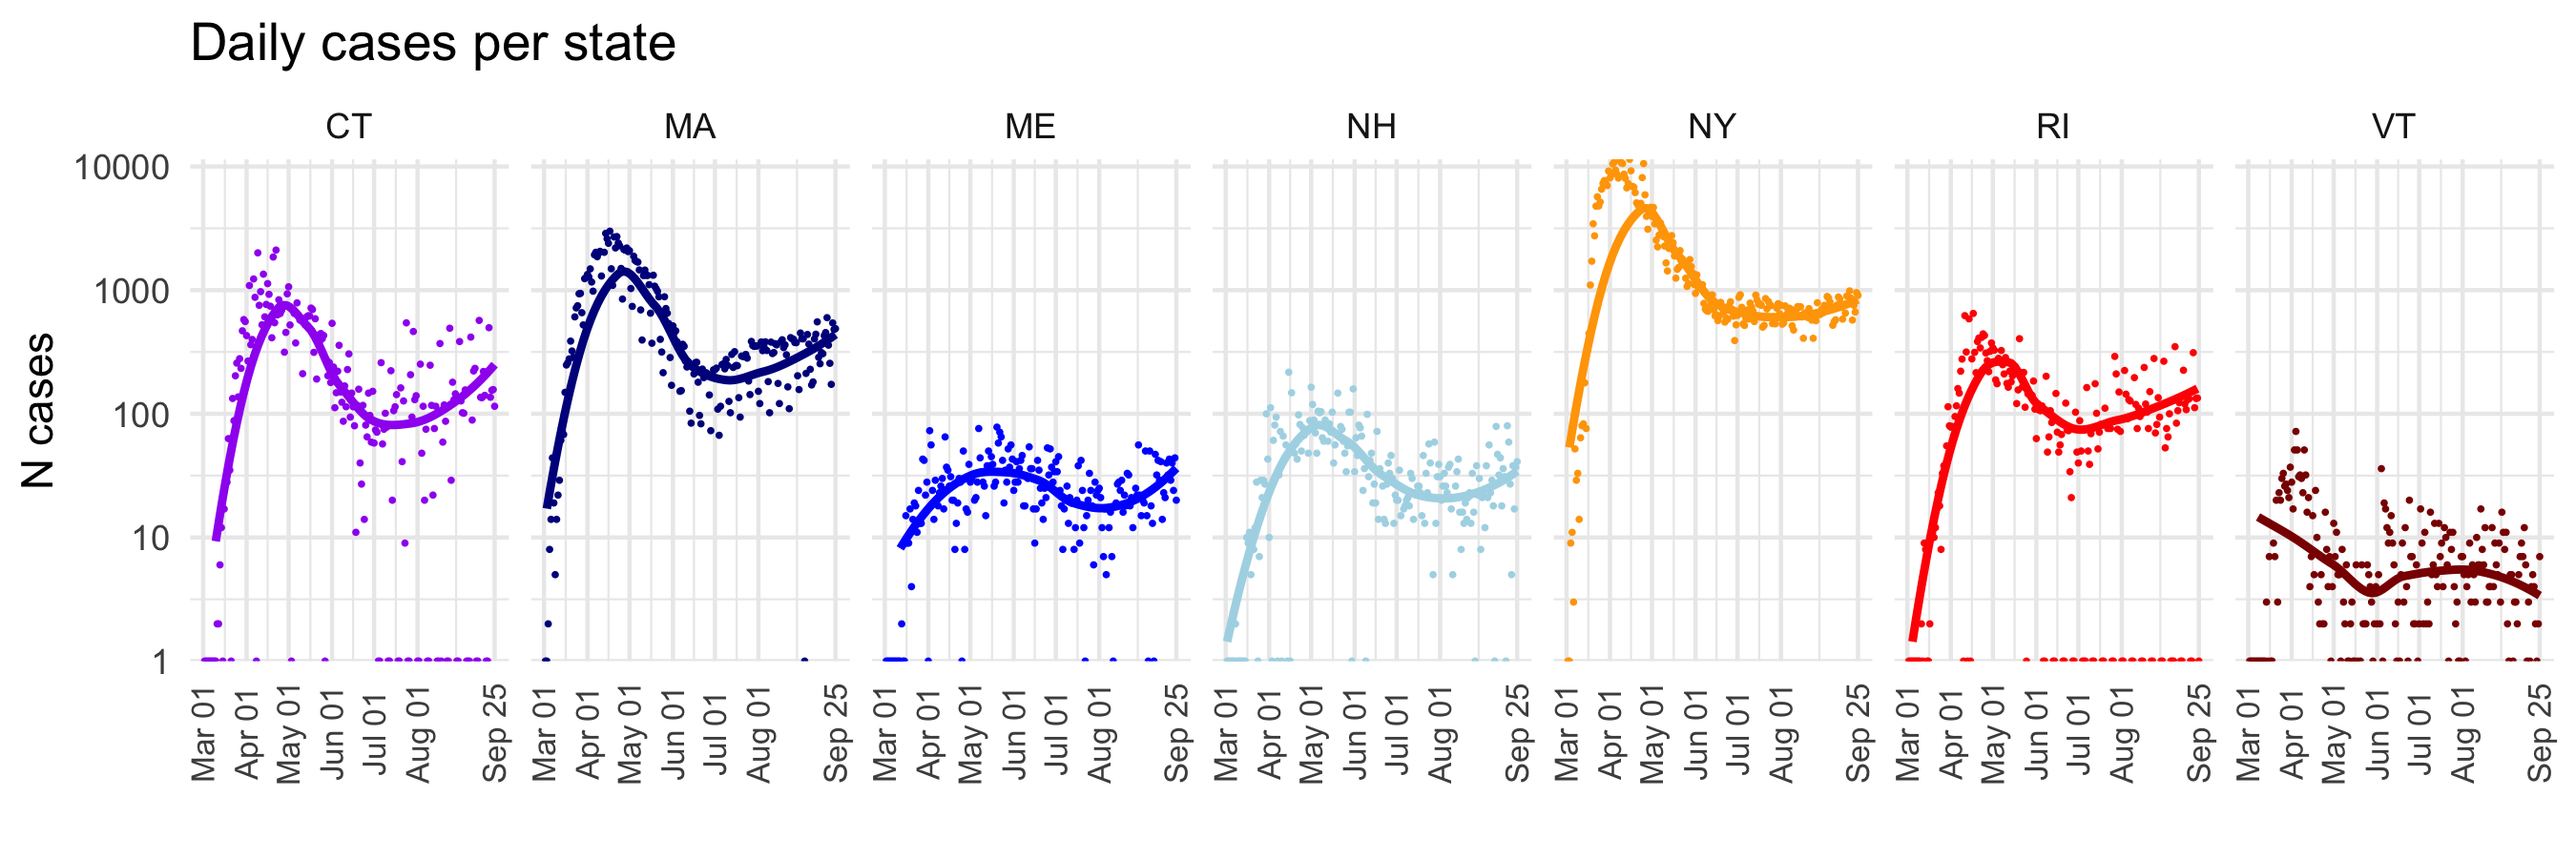
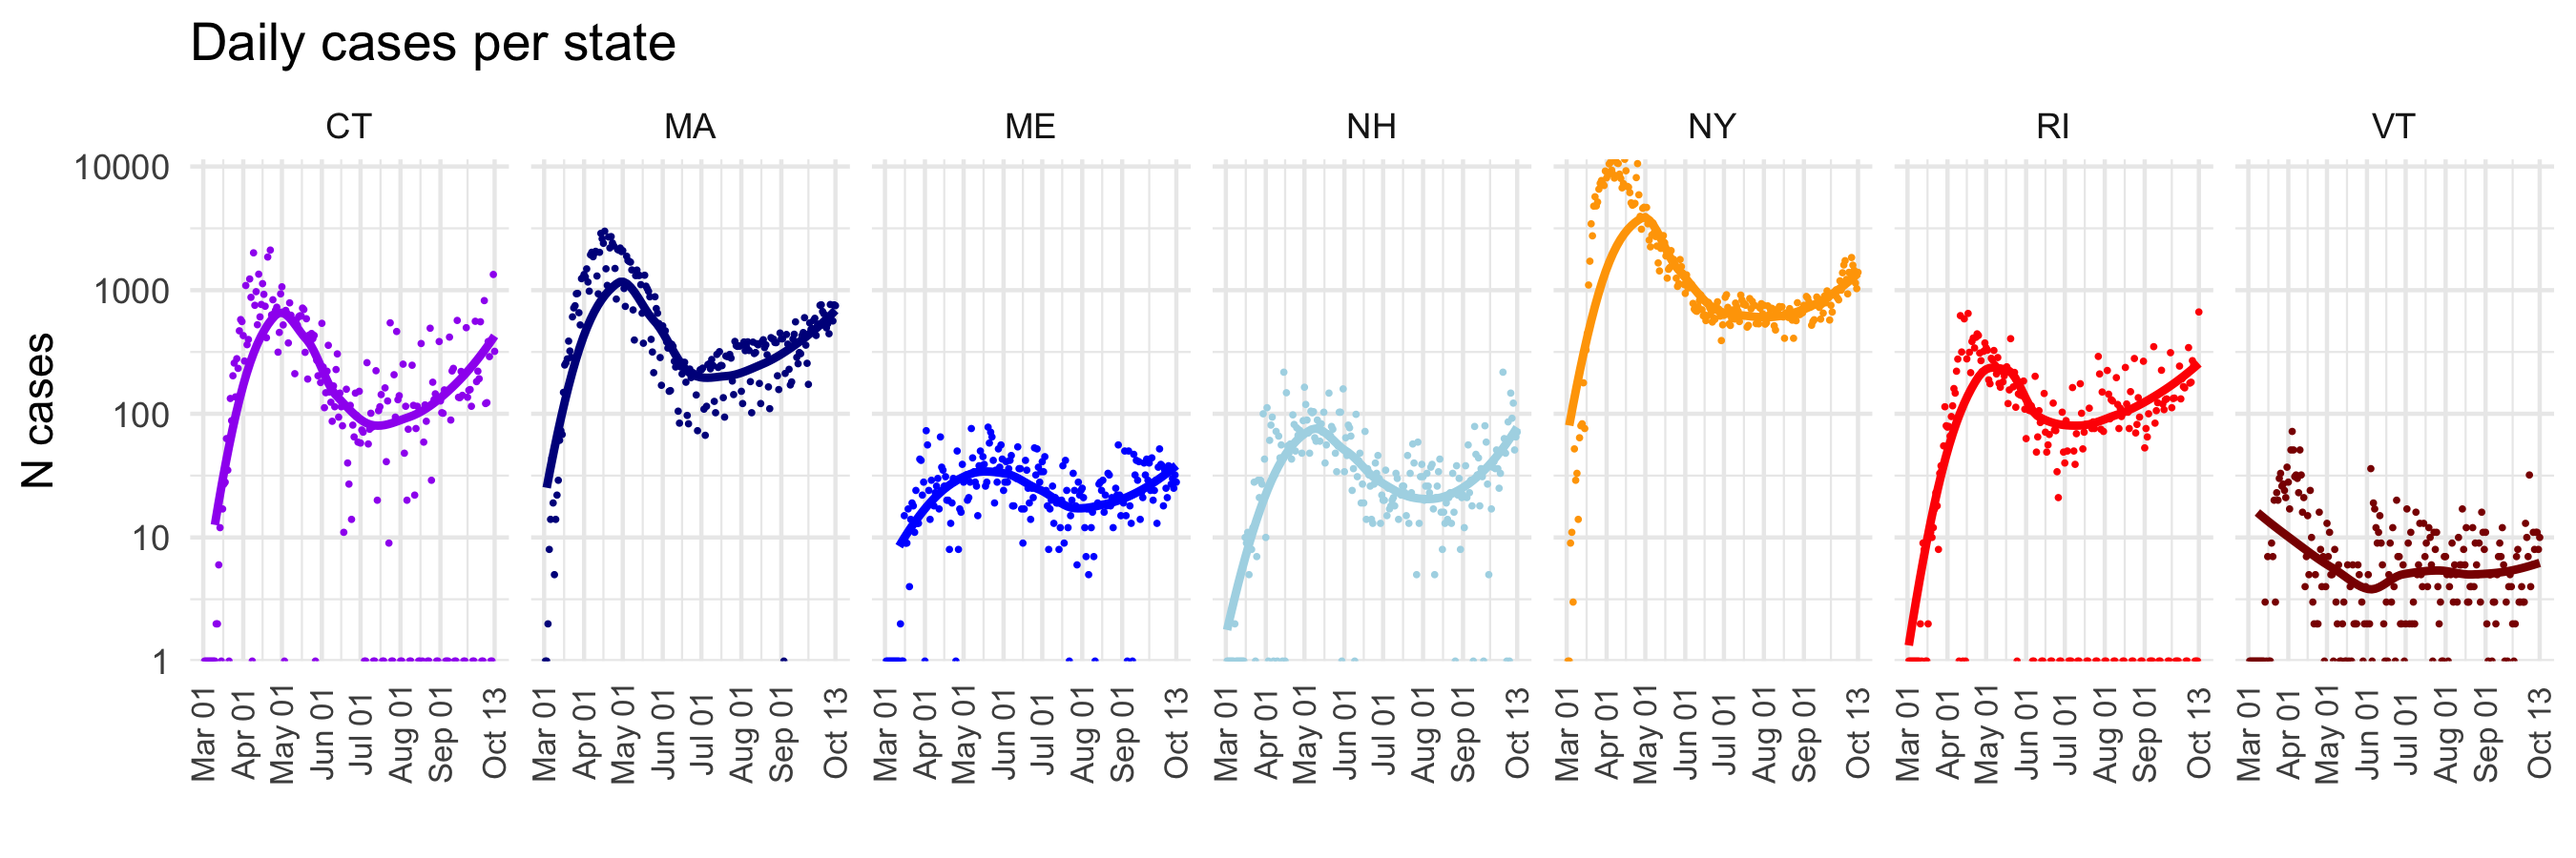
Package update on 2020-10-14 13:59:00

Changed region(s): [[0.0622, 0.1867, 0.9956, 0.9333]]

diff --git a/README.md b/README.md
@@ -12,7 +12,7 @@ around a focal point, in this case Worcester, MA, the home of Clark
 University. It also tries to show county-level detail available in state
 datasets.
 
-**Last update**: 2020-09-26 10:10:10
+**Last update**: 2020-10-14 13:58:57
 <img src="vignettes/figures/caserate_map.png" width="95%" style="display: block; margin: auto;" /><img src="vignettes/figures/case_map.png" width="95%" style="display: block; margin: auto;" /><img src="vignettes/figures/statecases_daily.png" width="95%" style="display: block; margin: auto;" /><img src="vignettes/figures/statecases_cumulative.png" width="95%" style="display: block; margin: auto;" /><img src="vignettes/figures/statedeaths_daily.png" width="95%" style="display: block; margin: auto;" /><img src="vignettes/figures/statedeaths_cumulative.png" width="95%" style="display: block; margin: auto;" />
 
 ## Notes
